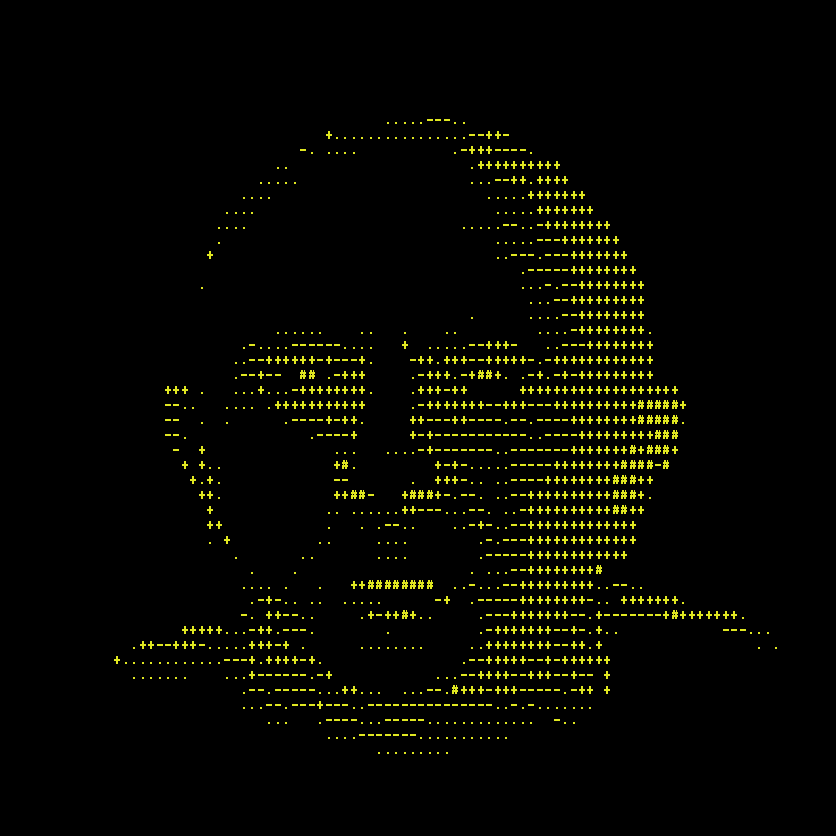
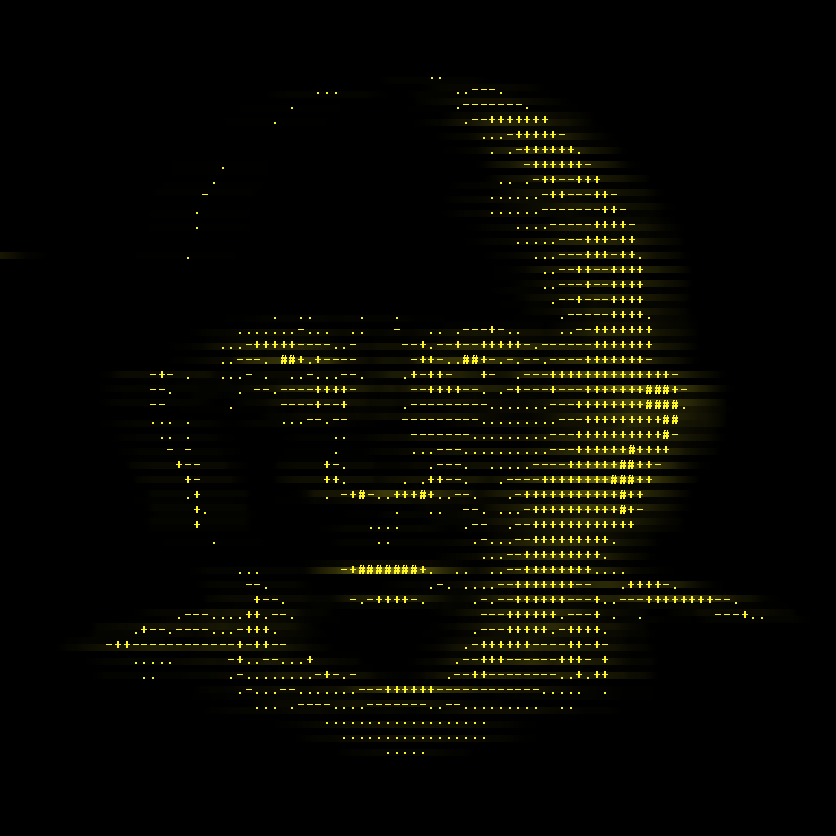
New png/gifs and fixed TTS sync bug
Fixed the TTS sync bug to thinking animation and answer delay by tying it to the json seed instead of the length of the audio file. And uploaded images/gifs as well as played a bit with the thresholds, changed so the porgrammed distortion happens a bit more rarely and does not scale the image. the distorted gif set has threshold 0.65 so will rarely happen.

diff --git a/philosophers-app/src/components/ImageGrid.module.css b/philosophers-app/src/components/ImageGrid.module.css
@@ -48,30 +48,30 @@
 ─────────────────────────────────────────────────────────────────────────── */
 
 @keyframes glitchIntense {
-  0%,  74%, 100% { transform: scale(1.03) translate(0,    0); }
-  76%            { transform: scale(1.03) translate(-8px,  0); }
-  78%            { transform: scale(1.03) translate( 8px,  0); }
-  80%            { transform: scale(1.03) translate(-5px,  2px); }
-  82%            { transform: scale(1.03) translate( 0,    0); }
-  84%            { transform: scale(1.03) translate( 4px, -2px); }
-  86%            { transform: scale(1.03) translate( 0,    0); }
-  88%            { transform: scale(1.03) translate(-6px,  1px); }
-  90%            { transform: scale(1.03) translate( 0,    0); }
+  0%,  74%, 100% { transform: translate(0,    0); }
+  76%            { transform: translate(-8px,  0); }
+  78%            { transform: translate( 8px,  0); }
+  80%            { transform: translate(-5px,  2px); }
+  82%            { transform: translate( 0,    0); }
+  84%            { transform: translate( 4px, -2px); }
+  86%            { transform: translate( 0,    0); }
+  88%            { transform: translate(-6px,  1px); }
+  90%            { transform: translate( 0,    0); }
 }
 
 @keyframes glitchMedium {
-  0%,  84%, 100% { transform: scale(1.03) translate(0,    0); }
-  86%            { transform: scale(1.03) translate(-5px,  1px); }
-  88%            { transform: scale(1.03) translate( 5px, -1px); }
-  91%            { transform: scale(1.03) translate(-2px,  0); }
-  94%            { transform: scale(1.03) translate( 0,    0); }
+  0%,  84%, 100% { transform: translate(0,    0); }
+  86%            { transform: translate(-5px,  1px); }
+  88%            { transform: translate( 5px, -1px); }
+  91%            { transform: translate(-2px,  0); }
+  94%            { transform: translate( 0,    0); }
 }
 
 @keyframes glitchSubtle {
-  0%,  91%, 100% { transform: scale(1.03) translate(0,    0); }
-  93%            { transform: scale(1.03) translate(-2px,  0); }
-  96%            { transform: scale(1.03) translate( 2px,  0); }
-  99%            { transform: scale(1.03) translate(-1px,  0); }
+  0%,  91%, 100% { transform: translate(0,    0); }
+  93%            { transform: translate(-2px,  0); }
+  96%            { transform: translate( 2px,  0); }
+  99%            { transform: translate(-1px,  0); }
 }
 
 .glitchIntense { animation: glitchIntense 1.1s infinite; }

diff --git a/philosophers-app/src/hooks/useDebate.ts b/philosophers-app/src/hooks/useDebate.ts
@@ -217,9 +217,10 @@ export function useDebate(): UseDebateReturn {
   async function sendLiveInstruction(instruction: string): Promise<string | null> {
     interruptCurrentLine();
     stopCurrentAudio();
-    // Discard any pre-fetched response — the next poll must get a fresh one
-    // generated with the instruction already in context.
+    // Discard any pre-fetched response and pre-started thinking state
     prefetchPromiseRef.current = null;
+    pendingAnswerDelayRef.current = null;
+    thinkingPreStartedRef.current = false;
     pendingAnswerDelayRef.current = null;
     thinkingPreStartedRef.current = false;
     const corrected = await postCorrectTranscript(
@@ -420,8 +421,15 @@ export function useDebate(): UseDebateReturn {
           const overlapMs = thinkingMs - delayMs;
 
           if (overlapMs > 0) {
-            const audioDuration = audio.duration;
-            const overlapStartTime = audioDuration - overlapMs / 1000;
+            // Use the exact audio duration from the JSON subtitles array instead of
+            // waiting for audio.duration metadata to load. The last subtitle word
+            // contains the precise audio end time.
+            const subtitlesList = data.subtitles || [];
+            const audioDurationSeconds = subtitlesList.length > 0
+              ? subtitlesList[subtitlesList.length - 1].end
+              : 0;
+
+            const overlapStartTime = Math.max(0, audioDurationSeconds - (overlapMs / 1000));
 
             const doPreStartThinking = () => {
               if (signal.aborted) return;
@@ -430,9 +438,10 @@ export function useDebate(): UseDebateReturn {
               setThinkingName(nextData.philosopher);
             };
 
-            if (!isNaN(audioDuration) && overlapStartTime > audio.currentTime) {
+            if (audioDurationSeconds > 0) {
               void waitForAudioTime(audio, overlapStartTime, signal).then(doPreStartThinking);
             } else {
+              // Fallback if subtitles array is completely missing
               doPreStartThinking();
             }
           }
@@ -658,6 +667,8 @@ export function useDebate(): UseDebateReturn {
     setIsAudienceQuestion(false);
     setAudienceAwaiting(false);
     prefetchPromiseRef.current = null;
+    pendingAnswerDelayRef.current = null;
+    thinkingPreStartedRef.current = false;
     pendingAnswerDelayRef.current = null;
     thinkingPreStartedRef.current = false;
 

diff --git a/philosophers-app/src/utils/distanceUtils.ts b/philosophers-app/src/utils/distanceUtils.ts
@@ -1,11 +1,25 @@
-/** Thinking duration in ms based on distance [0.1, 1.5]. */
+/** Thinking duration in ms based on distance [0.1, 1.5].
+ *  0.1-0.7: 1s (flat)
+ *  0.7-1.3: scales from 1s to 5s (linear)
+ *  1.3+: 5s (flat)
+ */
 export function computeThinkingTime(distance: number): number {
-  if (distance <= 0.5) return 1000;
-  return 1000 + ((distance - 0.5) / 1.0) * 4000; // 1000→5000 ms over [0.5, 1.5]
+  if (distance <= 0.7) return 1000;
+  if (distance <= 1.3) {
+    return 1000 + ((distance - 0.7) / 0.6) * 4000; // 1000→5000 ms over [0.7, 1.3]
+  }
+  return 5000;
 }
 
-/** Dead-air answer delay in ms based on distance [0.1, 1.5]. */
+/** Dead-air answer delay in ms based on distance [0.1, 1.5].
+ *  0.1-0.75: 0.5s (flat)
+ *  0.75-1.2: scales from 0.5s to 3s (linear)
+ *  1.2+: 3s (flat)
+ */
 export function computeAnswerDelay(distance: number): number {
-  if (distance <= 0.8) return 500;
-  return 500 + ((distance - 0.8) / 0.7) * 2500; // 500→3000 ms over [0.8, 1.5]
+  if (distance <= 0.75) return 500;
+  if (distance <= 1.2) {
+    return 500 + ((distance - 0.75) / 0.45) * 2500; // 500→3000 ms over [0.75, 1.2]
+  }
+  return 3000;
 }

diff --git a/philosophers-app/src/components/ImageGrid.tsx b/philosophers-app/src/components/ImageGrid.tsx
@@ -36,9 +36,9 @@ function ragGlitchClass(
   isActive: boolean,
 ): string {
   if (!isActive || distance == null) return '';
-  if (distance < 0.75) return styles.glitchIntense;
-  if (distance < 1.05) return styles.glitchMedium;
-  if (distance < 1.35) return styles.glitchSubtle;
+  if (distance < 0.55) return styles.glitchIntense;
+  if (distance < 0.6) return styles.glitchMedium;
+  if (distance < 0.75) return styles.glitchSubtle;
   return '';
 }
 
@@ -84,7 +84,7 @@ const ImageGrid = ({
             isUsingGif = true;
           } else if (isSpeaking && GIF_SETS.has(imageSet) && !isPaused) {
             const dist = ragRelevanceMap[baseName];
-            const useDistanceGif = dist != null && dist <= 0.5;
+            const useDistanceGif = dist != null && dist <= 0.8;
             imgSrc = useDistanceGif
               ? `/images/${config.filePrefix}1_distorted.gif`
               : `/images/${config.filePrefix}${imageSet}.gif`;
